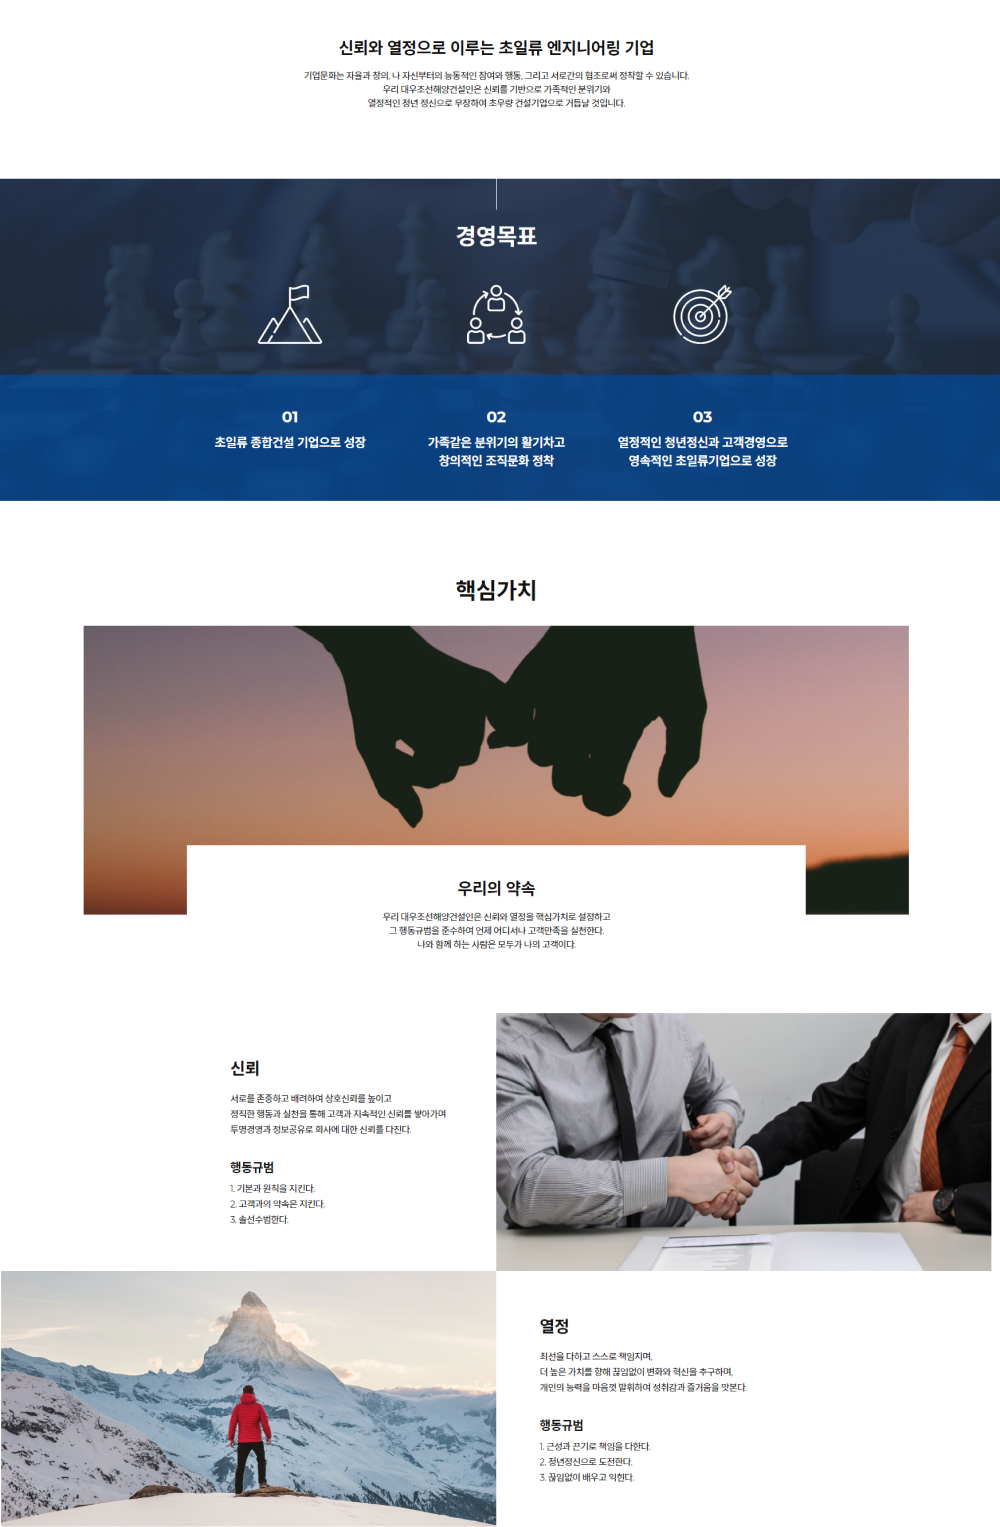
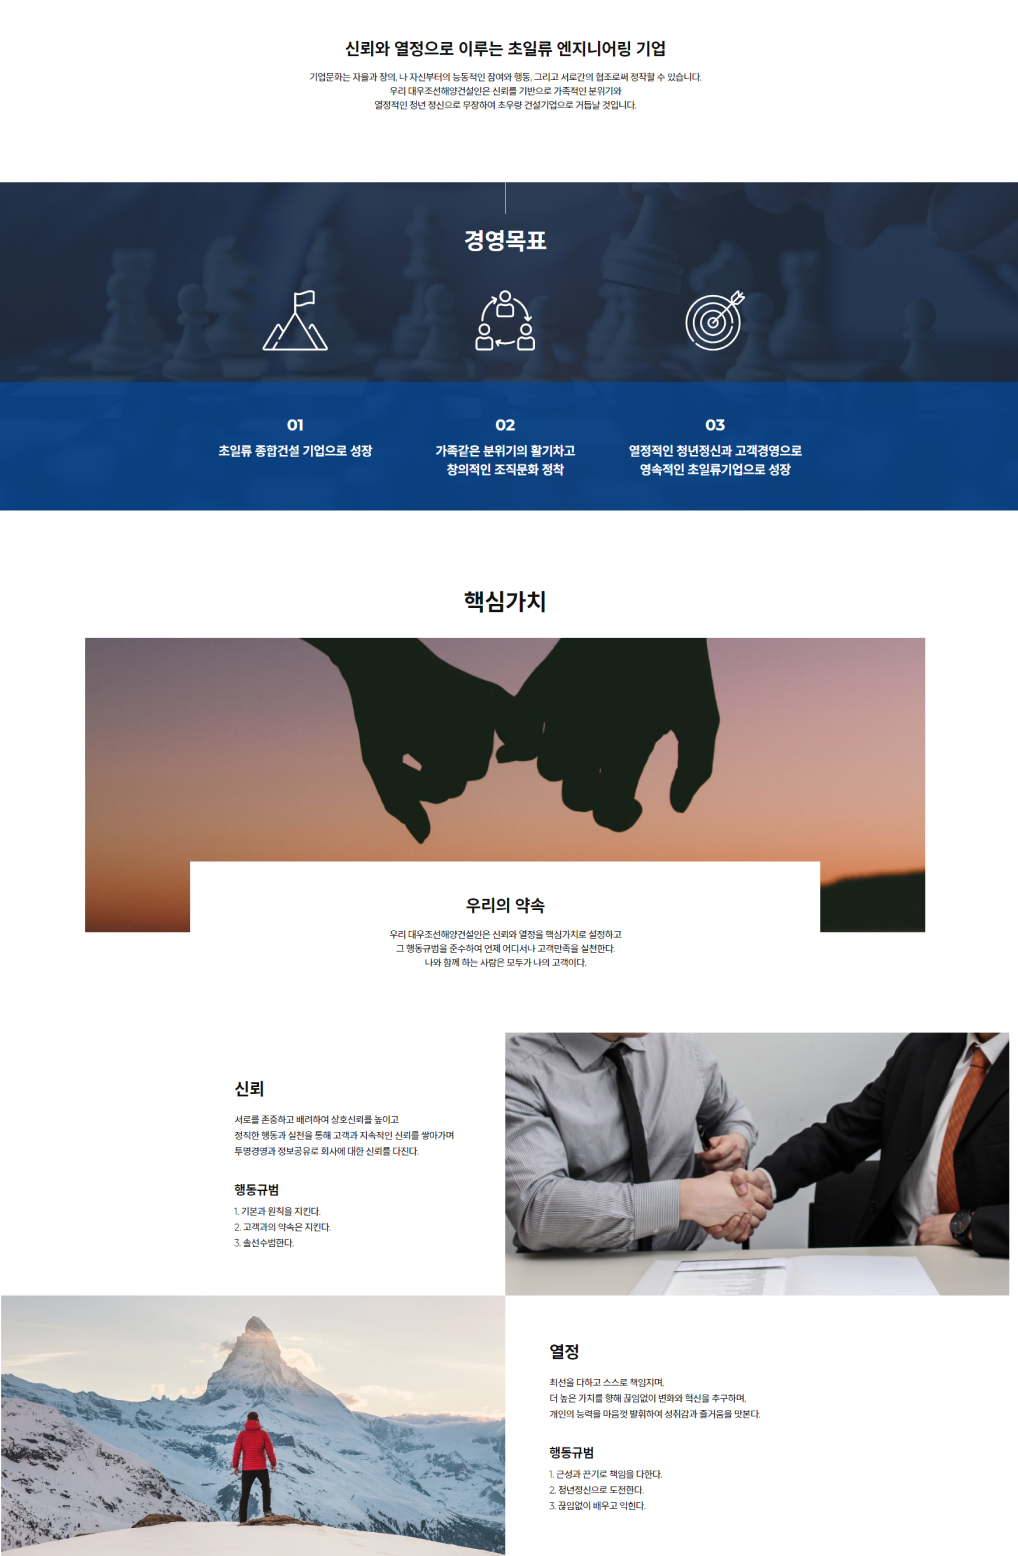
up

diff --git a/company/promotion.html b/company/promotion.html
@@ -196,35 +196,16 @@
                   <section class="conSubTit on">기업문화</section>
                 </section>
 
-                <section class="main">
-                  <!-- <p class="main">대우조선해양건설은<br>
+                <!-- <section class="main">
+                  <p class="main">대우조선해양건설은<br>
                    탄탄한 기반으로 주택건설업 사업에 참여합니다.</p>
-                </section> -->
-
+                </section>  -->
+                 
                 <img src="./images/curture02.png">
               </div><!--기업문화-->
 
 
-              <!-- <div>
-                <section class="location">
-                  <img src="images/location_icon.png" alt="">
-                  <img src="images/location_arrow.png" alt="">
-                  <a href="company.html">사업소개</a>
-                  <img src="images/location_arrow.png" alt="">
-                  <a href="#" class="coLocation on">토목분야</a>
-                </section>
-                   
-                <section class="subBox">
-                  <section class="conSubTit on">토목분야</section>
-                </section>
-
-                <section class="main">
-                  <p class="main">대우조선해양건설은<br>
-                  다양한 사업참여를 기반으로 성장해 나갑니다.</p>
-                </section>
-                   
-                <img src="./images/Bis04.png">
-              </div>토목분야 -->
+             
      </div>
    </div> 
 

diff --git a/company/css/promotion.css b/company/css/promotion.css
@@ -502,7 +502,7 @@ body{
         height: 100%;
         position: relative;
         top:450px;  
-        _background-color: aqua;
+        background-color: aqua;
     }
     .location {
         display: flex;
@@ -632,13 +632,19 @@ body{
 
     /*이미지조정*/
 
-    .box div>img{
+     .box div>img{
         position: relative;
-        left: 50px;
+        left: 150px;
         margin-top: 30px;
         width: 400px;
-    }
+    } 
 
+    .box div>img {
+        position: relative;
+        left: 70px;
+        margin-top: 30px;
+    }
+    
     /*footer*/
     #footer{
         position: relative;
